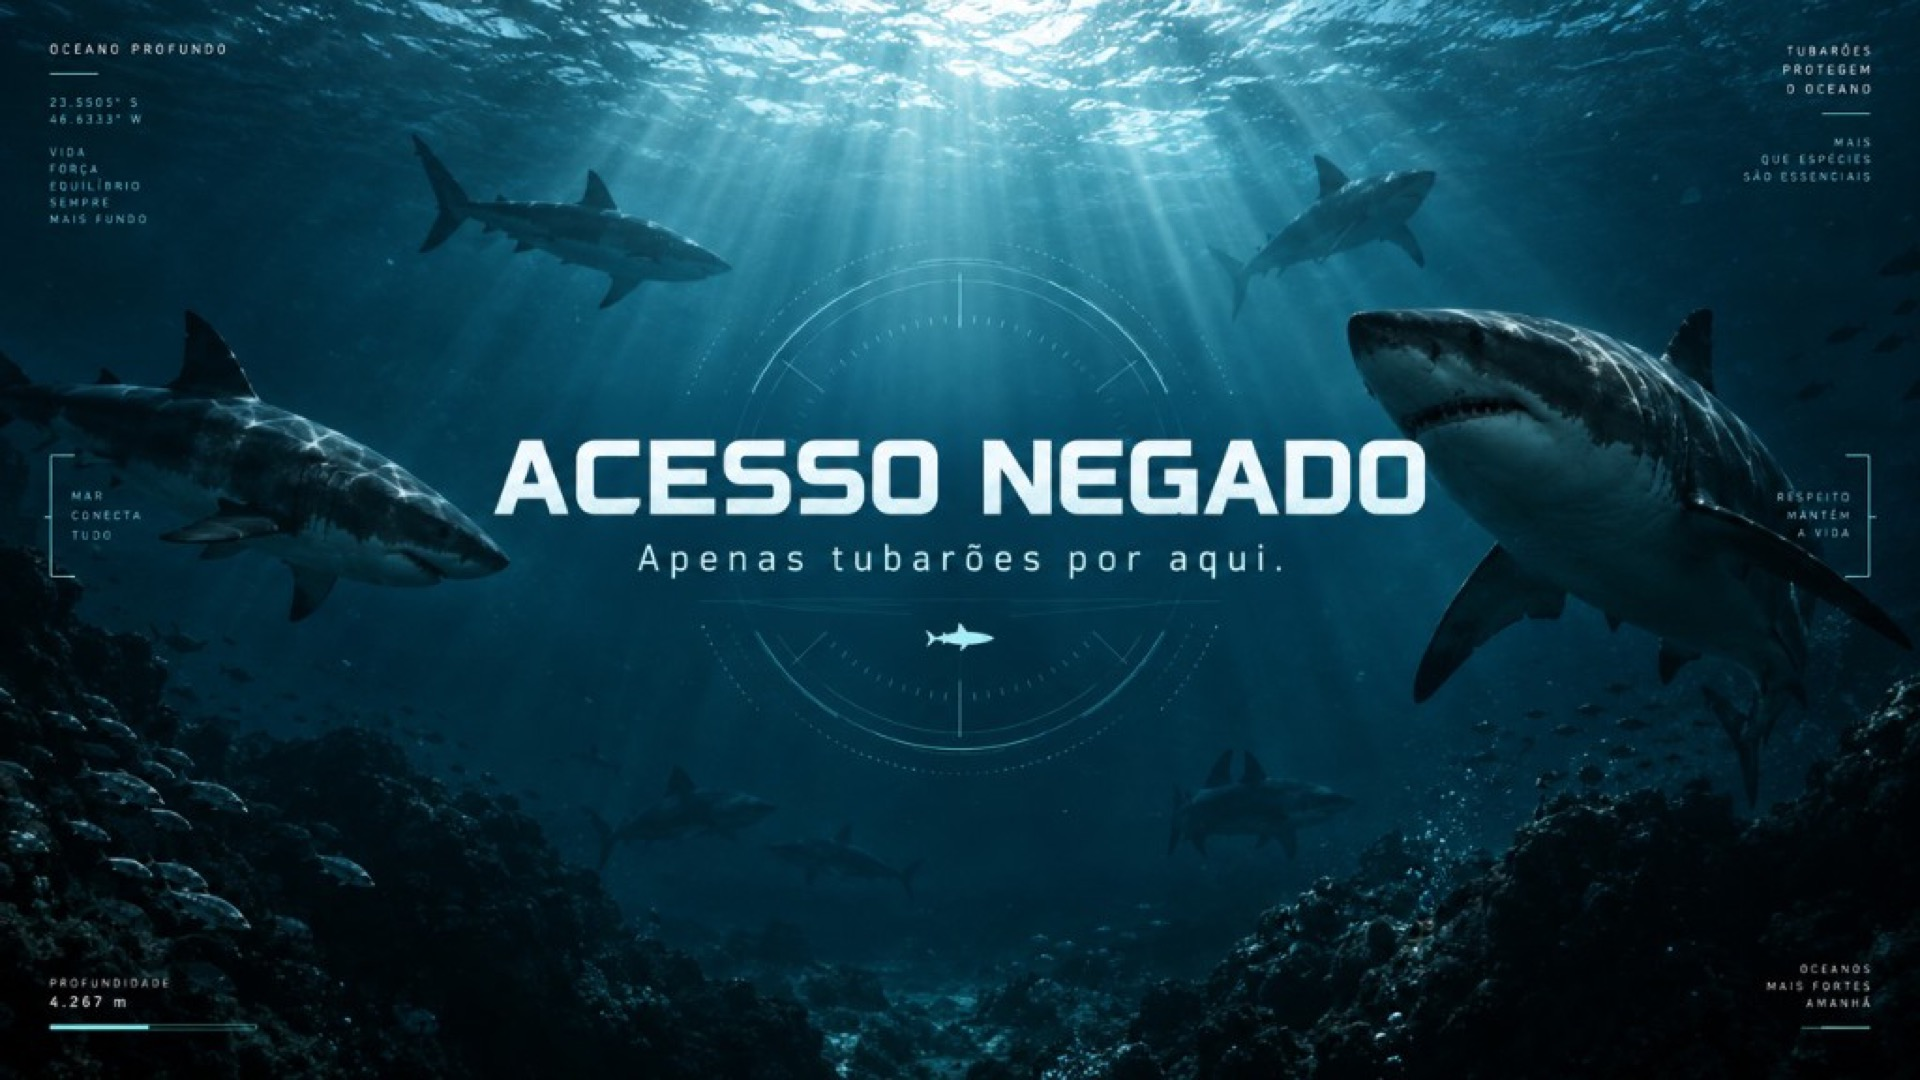
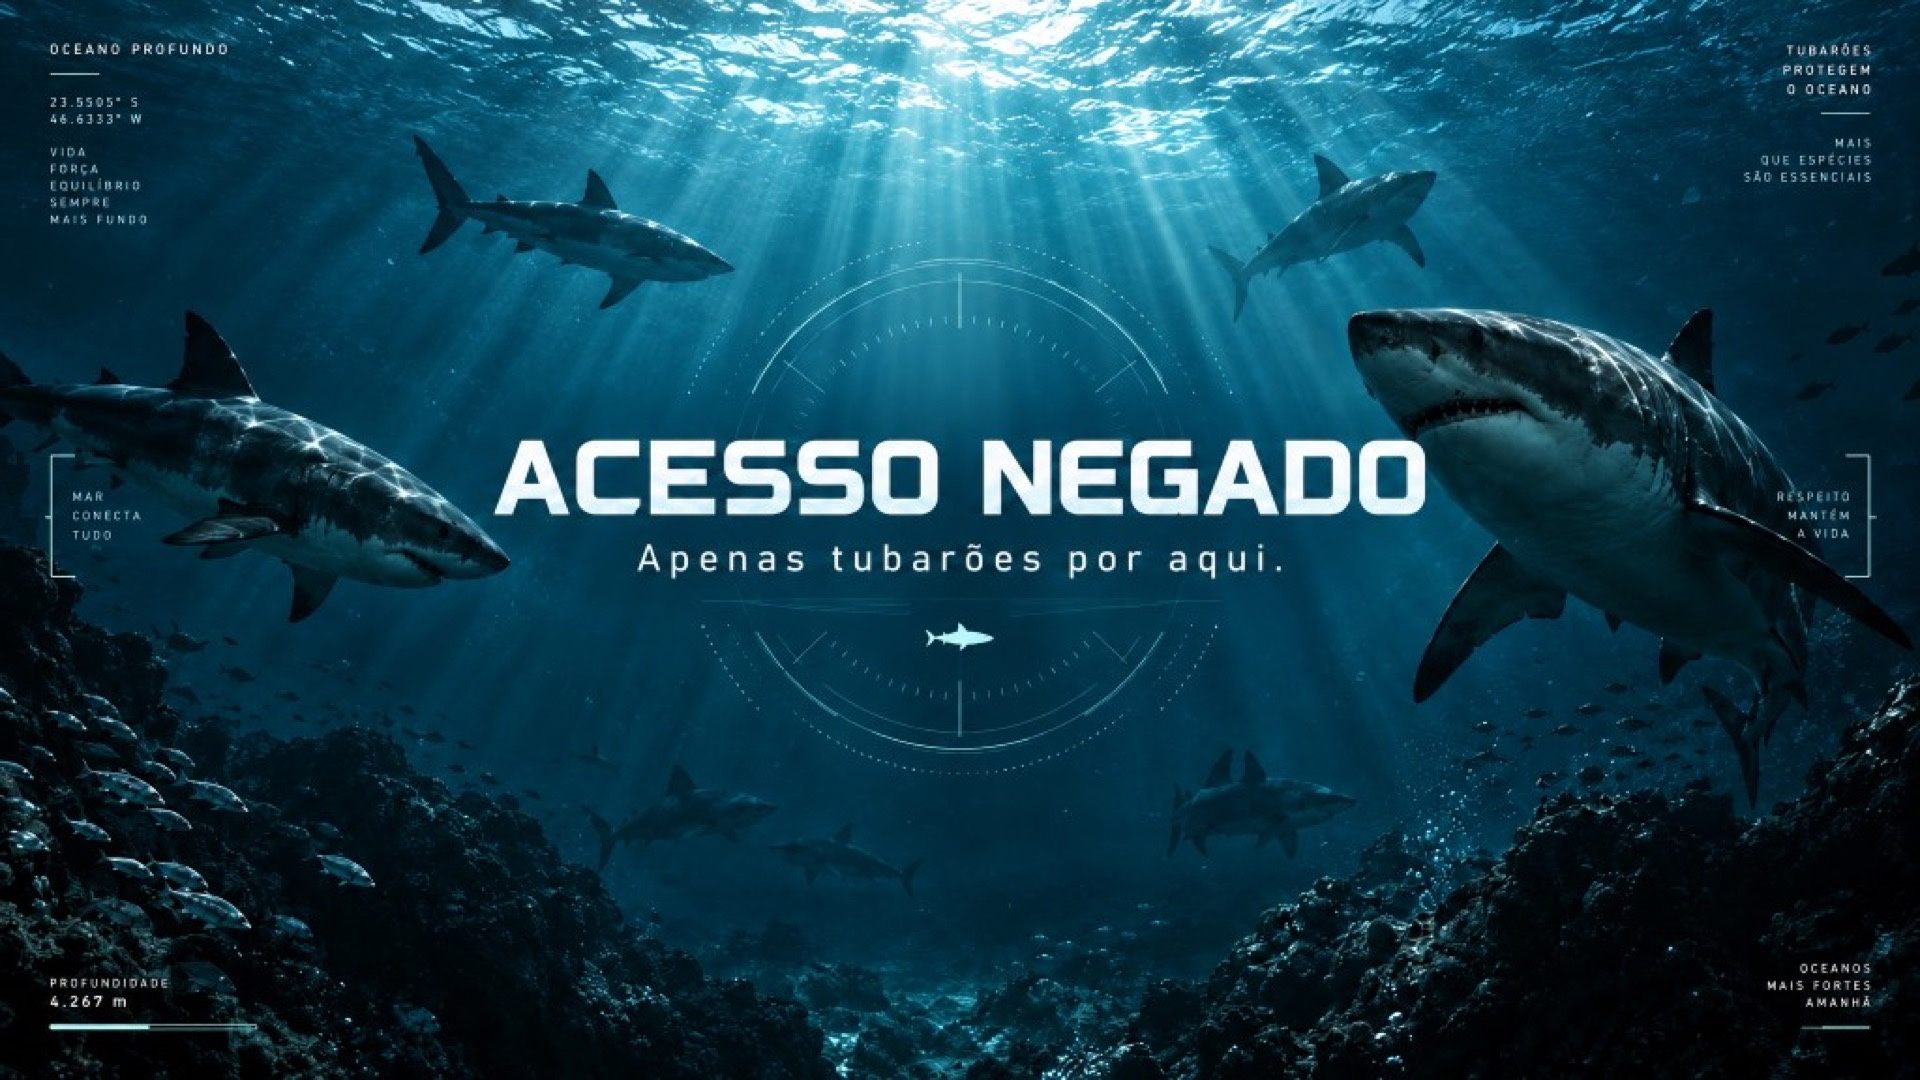
Corrige deploy das imagens 1920/2560 da home.
Inclui binários que não tinham ido no commit anterior e evita srcSet 1024w.

diff --git a/app/page.tsx b/app/page.tsx
@@ -9,8 +9,8 @@ export default function PaginaInicial() {
   return (
     <main className="relative h-dvh min-h-screen w-full overflow-hidden bg-[#0a1628]">
       <img
-        src="/acesso-negado-sharks-1920.jpg"
-        srcSet="/acesso-negado-sharks-hq.jpg 1024w, /acesso-negado-sharks-1920.jpg 1920w, /acesso-negado-sharks-2560.jpg 2560w"
+        src="/acesso-negado-sharks-2560.jpg"
+        srcSet="/acesso-negado-sharks-1920.jpg 1920w, /acesso-negado-sharks-2560.jpg 2560w"
         sizes="100vw"
         alt="Acesso negado. Apenas tubarões por aqui."
         className="absolute inset-0 h-full w-full object-cover object-center"
